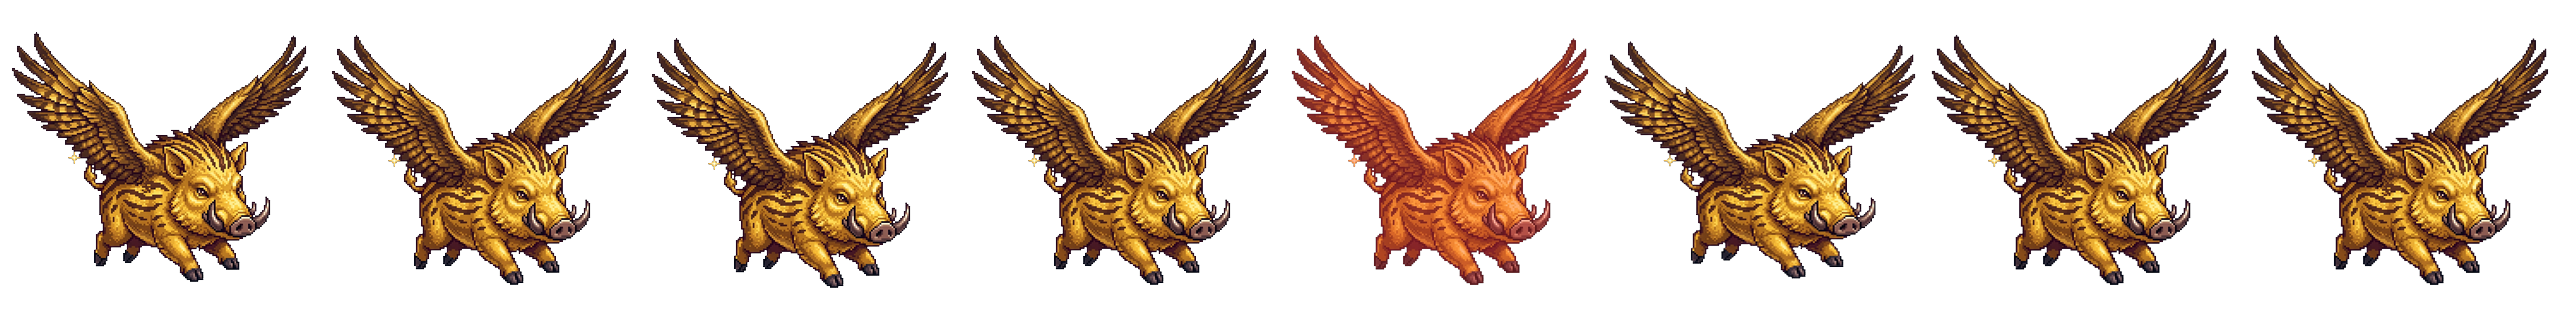
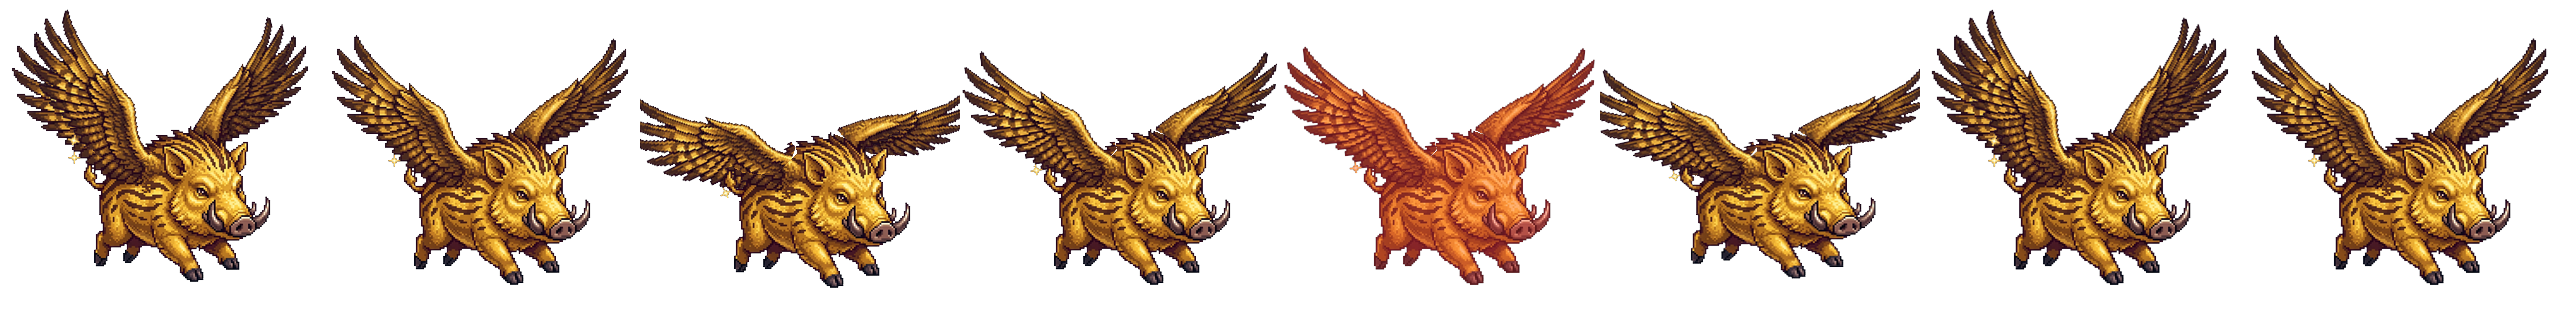
When Pigs Fly: rigged wings, synced from app 3d526d8
TEN-GAMES.md records the wing rig: the cut lines and pivots, the piglet's
colour lift, the rest-wing underlay, and the tap-to-downstroke. The art
brief notes that hand-drawn wing positions would replace the rig one for
one.

Changed region(s): [[0.25, 0.0625, 0.875, 0.5938], [0.0, 0.0625, 0.125, 0.5]]

diff --git a/arcade/v2/app/lib/arcade/passage/passage_render.dart b/arcade/v2/app/lib/arcade/passage/passage_render.dart
@@ -462,7 +462,9 @@ extension PassageRender on PassageGame {
   /// The boar, centred on the hitbox and pitched with its climb and fall.
   /// Returns false when this stage's sheet is not loaded.
   ///
-  /// Drawn from the owner's art, sampled smoothly, with a squash on each flap.
+  /// Drawn from the owner's art, sampled smoothly. The wings are rigged in
+  /// the sheet (`tool/art/import_boars.py`), so the frames carry a real
+  /// wingbeat.
   bool _boar(Canvas canvas, double alpha) {
     final frames = _boarFrames[stage];
     if (frames == null) return false;
@@ -494,14 +496,6 @@ extension PassageRender on PassageGame {
       final y = landing ? min(_coinY, _groundY - (spec.footV - spec.anchorV) * side) : _coinY;
       canvas.translate(_coinX, y);
       canvas.rotate(tilt);
-      // The wingbeat: each flap squashes the boar a little and lets it go
-      // over a fifth of a second. The art is a single pose, so this is what
-      // makes a tap look like a stroke of the wings.
-      final since = _t - _flapAt;
-      if (!landing && since >= 0 && since < 0.22) {
-        final k = 1 - since / 0.22;
-        canvas.scale(1 - 0.05 * k, 1 + 0.07 * k);
-      }
       frames[frame].render(canvas,
           position: Vector2(-spec.anchorU * side, -spec.anchorV * side), size: Vector2.all(side), overridePaint: paint);
     }

diff --git a/arcade/v2/app/lib/arcade/passage/boar.dart b/arcade/v2/app/lib/arcade/passage/boar.dart
@@ -19,9 +19,9 @@
 /// juvenile on golden feathered wings, a razorback on golden dragon wings.
 /// Each is a single flying pose, imported into the sheet layout by
 /// `tool/art/import_boars.py`, which mirrors it to face right, drops the
-/// detached sparkles and builds the eight frames: a small bob across the
-/// wing cycle, a red-tinted hurt frame, a stretched dash frame. The wingbeat
-/// itself is a squash-and-stretch the renderer adds on every flap. The old
+/// detached sparkles, cuts the wings out and turns them about their
+/// shoulders to build the eight frames: a real wingbeat, a red-tinted hurt
+/// frame, a swept dash frame and a braking landing frame. The old
 /// generated placeholders came from `tool/art/boar_sprites.py`.
 library;
 

diff --git a/arcade/v2/app/lib/arcade/passage/passage_game.dart b/arcade/v2/app/lib/arcade/passage/passage_game.dart
@@ -768,6 +768,9 @@ class PassageGame extends FlameGame {
     }
     _vy = _flapImpulse * _lift;
     _flapAt = _t;
+    // A tap is a downstroke: jump the cycle to the wings-up frame, so the
+    // next frames beat them down as the boar rises.
+    _wingPhase = _wingPhase.floorToDouble() + (4 - _wingPhase.floor() % 4);
     // A flap is the player taking the controls back: it lets go of a grapple.
     _grapple = null;
     Audio.instance.tap();

diff --git a/arcade/v2/app/tool/art/import_boars.py b/arcade/v2/app/tool/art/import_boars.py
@@ -13,11 +13,16 @@ this:
   2. drops detached specks (sparkles, stray pixels) that are not part of the
      boar, so the frame fits the boar, not its glitter;
   3. crops and centres it in a square frame with a little margin;
-  4. writes an eight-frame sheet (see lib/arcade/passage/boar.dart): the one
-     pose throughout, with a small bob across the wing cycle, a red-tinted
-     hurt frame, and a stretched dash frame. The game adds the rest of the
-     motion (pitch, a wingbeat squash, the glow);
-  5. rebuilds the home-card image from the razorback.
+  4. rigs the wings: each is cut out along the line where it meets the back
+     (WINGS below, measured on a grid) and turned about its shoulder, so the
+     sheet has a real wingbeat — up, level, down, folding back — while the
+     body, and all its detail, stays exactly as drawn. The wings sit behind
+     the body layer, which covers their roots, so a lowered wing tucks behind
+     the back instead of leaving a hole where it was;
+  5. writes the eight-frame sheet (see lib/arcade/passage/boar.dart): the
+     wing cycle with a small bob, a red-tinted hurt frame, a swept-back dash
+     frame, and a landing frame braking with the wings raised;
+  6. rebuilds the home-card image from the razorback.
 
 Then run tool/art/check_sheets.py for the hoof line, and set the placement
 numbers in BoarSpec.
@@ -34,6 +39,45 @@ OUT = os.path.normpath(os.path.join(HERE, "..", "..", "assets", "images"))
 STAGES = ["piglet", "juvenile", "razorback"]
 FRAME = 320  # px per square frame in the sheet
 FRAMES = 8
+
+# Each wing: the region to lift off (a polygon in fractions of the frame,
+# drawn above the line where the wing meets the back, so the root stays on
+# the body), and the shoulder it turns about. "key" lifts only pixels of the
+# wing's own colouring (and their outline) from inside the polygon — the
+# piglet's white feathers, which the polygon alone cannot separate from the
+# gold-striped back they overlap.
+WINGS = {
+    "piglet": [
+        dict(poly=[(0.03, 0.12), (0.22, 0.15), (0.36, 0.28), (0.45, 0.43), (0.44, 0.50), (0.36, 0.49),
+                   (0.18, 0.45), (0.06, 0.37), (0.03, 0.24)], pivot=(0.41, 0.47), key="white"),
+        dict(poly=[(0.60, 0.01), (0.80, 0.01), (0.81, 0.30), (0.74, 0.36), (0.62, 0.36), (0.59, 0.15)],
+             pivot=(0.68, 0.34), key="white"),
+    ],
+    "juvenile": [
+        # Down to just above the tail and the back: the lowest feathers hang to
+        # 0.53, and cut higher they stayed behind as a sliver on the upstroke.
+        dict(poly=[(0.01, 0.06), (0.14, 0.04), (0.30, 0.18), (0.41, 0.29), (0.48, 0.41), (0.49, 0.47),
+                   (0.44, 0.52), (0.38, 0.535), (0.32, 0.53), (0.285, 0.51), (0.24, 0.52), (0.18, 0.50),
+                   (0.02, 0.43)], pivot=(0.45, 0.47)),
+        dict(poly=[(0.59, 0.37), (0.71, 0.22), (0.86, 0.07), (0.99, 0.08), (0.99, 0.31), (0.86, 0.38),
+                   (0.74, 0.43), (0.66, 0.43), (0.61, 0.41)], pivot=(0.64, 0.42)),
+    ],
+    "razorback": [
+        # The membrane's lowest point nearly touches the tail's curl; the cut
+        # runs between them at x = 0.278.
+        dict(poly=[(0.01, 0.11), (0.21, 0.13), (0.38, 0.22), (0.41, 0.33), (0.44, 0.44), (0.46, 0.48),
+                   (0.40, 0.50), (0.30, 0.485), (0.279, 0.49), (0.279, 0.535), (0.25, 0.535), (0.21, 0.52),
+                   (0.09, 0.45), (0.01, 0.30)],
+             pivot=(0.43, 0.47)),
+        dict(poly=[(0.63, 0.43), (0.65, 0.30), (0.70, 0.24), (0.85, 0.15), (0.98, 0.13), (0.93, 0.30),
+                   (0.86, 0.41), (0.77, 0.46), (0.70, 0.46)], pivot=(0.66, 0.45)),
+    ],
+}
+
+# Wing angle per frame, degrees: positive lowers the wing tip. Frames 0-3 are
+# the beat (up, level, down, folding back); 4 hurt; 5 dash; 6 landing; 7 at
+# rest.
+WING_ANGLES = [-14, 0, 26, 8, 6, 14, -16, 0]
 
 
 def main_component(img, keep=0.02, scale=4):
@@ -76,6 +120,58 @@ def main_component(img, keep=0.02, scale=4):
     return Image.fromarray(out, "RGBA"), dropped
 
 
+def split_wings(frame, stage):
+    """The body without its wings, and each wing on its own layer with the
+    sign that lowers its tip."""
+    from PIL import ImageDraw
+    body = frame.copy()
+    wings = []
+    arr = np.array(frame)
+    for w in WINGS.get(stage, []):
+        m = Image.new("L", frame.size, 0)
+        ImageDraw.Draw(m).polygon([(x * FRAME, y * FRAME) for x, y in w["poly"]], fill=255)
+        mask = np.array(m) > 0
+        if w.get("key") == "white":
+            # Everything in the region that is not the warm brown and gold of
+            # the body: the white feathers, their lavender shading and their
+            # dark outline. Keying on "white" alone left the shading and the
+            # outline behind as faint ghost lines where the wing had been.
+            rgb = arr[:, :, :3].astype(int)
+            r, b = rgb[:, :, 0], rgb[:, :, 2]
+            warm = (r > b + 35) & (r > 90)
+            mask &= ~warm
+        mask &= arr[:, :, 3] > 0
+        layer = np.zeros_like(arr)
+        layer[mask] = arr[mask]
+        b = np.array(body)
+        b[mask, 3] = 0
+        body = Image.fromarray(b, "RGBA")
+        ys, xs = np.nonzero(mask)
+        px, py = w["pivot"][0] * FRAME, w["pivot"][1] * FRAME
+        # PIL turns counter-clockwise for a positive angle: that lowers the
+        # tip of a wing reaching up and back (to the left), and raises one
+        # reaching up and forward, so the sign follows the tip's side.
+        sign = 1 if (xs.mean() if len(xs) else px) < px else -1
+        wings.append((Image.fromarray(layer, "RGBA"), (px, py), sign))
+    return body, wings
+
+
+def posed(body, wings, angle):
+    """The body with its wings turned by [angle]. Each wing is laid down
+    twice: first as it was drawn (at rest), then turned. On the upstroke the
+    turned wing lifts clear of the wing's own lower edge, and without the
+    rest copy underneath, that edge — which lay across the back and the
+    tail — left a sliver of sky through the body. The rest copy fills it
+    with the wing's own feathers, the way a real wing's far side would."""
+    out = Image.new("RGBA", body.size, (0, 0, 0, 0))
+    for layer, pivot, sign in wings:
+        if angle < 0:
+            out.alpha_composite(layer)
+        out.alpha_composite(layer.rotate(sign * angle, resample=Image.BICUBIC, center=pivot))
+    out.alpha_composite(body)
+    return out
+
+
 def to_frame(img):
     """Crop to the art and centre it in a square with 4% margin."""
     img = img.crop(img.getchannel("A").getbbox())
@@ -85,9 +181,11 @@ def to_frame(img):
     return sq.resize((FRAME, FRAME), Image.LANCZOS)
 
 
-def sheet(frame):
+def sheet(frame, stage):
+    body, wings = split_wings(frame, stage)
     frames = []
     for i in range(FRAMES):
+        frame = posed(body, wings, WING_ANGLES[i])
         f = frame
         if i in (0, 1, 2, 3):
             # A small bob across the wing cycle: up, level, down, level.
@@ -128,7 +226,7 @@ def main():
         img, dropped = main_component(img)
         fr = to_frame(img)
         frames[stage] = fr
-        sheet(fr).save(os.path.join(OUT, f"boar_{stage}.png"))
+        sheet(fr, stage).save(os.path.join(OUT, f"boar_{stage}.png"))
         print(f"{stage}: {src} -> boar_{stage}.png, {dropped} detached specks dropped")
     # Home card: the razorback, trimmed and squared.
     rb = frames["razorback"]

diff --git a/arcade/TEN-GAMES.md b/arcade/TEN-GAMES.md
@@ -601,8 +601,23 @@ contract. It:
   frame, and a gently stretched dash frame
 
 The originals are kept in `tool/art/source/` so the sheets can be rebuilt.
-Since the art is a single pose, the wingbeat is a squash-and-stretch the
-renderer adds on every flap.
+
+**The wings are rigged** (added the same day, on the owner's request).
+- **The cut:** each wing is cut out of the art along the line where it meets
+  the back, and turned about its shoulder. The cut lines and pivots were
+  measured per stage on a grid. The piglet's white feathers are lifted by
+  colour, since they overlap the gold-striped back.
+- **The beat:** the sheet has a real wingbeat (up, level, down, folding back),
+  plus braking wings for the landing and swept-back wings for the dash. The
+  body and all its detail stay exactly as drawn.
+- **Layering:** wings sit behind the body, which covers their roots.
+- **Upstroke fill:** on the upstroke, a copy of the wing at rest is laid
+  underneath. Without it, the wing's lower edge, which lay across the back and
+  tail, left a sliver of sky through the body. On the razorback the membrane
+  nearly touches the tail's curl, so the cut runs between them.
+- **The tap:** each tap jumps the cycle to wings-up, so the next frames beat
+  them down as the boar rises. This replaces the squash-and-stretch the
+  renderer used to fake a wingbeat.
 
 **The art is sampled smoothly now.** It is detailed rather than on a strict
 pixel grid, and nearest-neighbour shimmered as it scaled and pitched.

diff --git a/arcade/WHEN-PIGS-FLY-ART-BRIEF.md b/arcade/WHEN-PIGS-FLY-ART-BRIEF.md
@@ -2,8 +2,10 @@
 
 > **Delivered 2026-09-27.** The owner made the three boars, which are now in
 > the game (TEN-GAMES.md, "Final boar art"). This brief stays as the spec for
-> any further poses: a true wing cycle, landing and standing frames. The
-> current art is a single flying pose per stage, and the game fakes the rest.
+> any further poses: hand-drawn wing positions and true landing and standing
+> frames. The current art is a single flying pose per stage. The importer cuts
+> the wings out and turns them to make the wingbeat (TEN-GAMES.md, "Final boar
+> art"); drawn frames would replace that one for one.
 
 Final sprite art for the player character of *When Pigs Fly*, game 1 of the
 DGD Arcade v2 catalogue (design: `TEN-GAMES.md`, "When Pigs Fly"). The game
